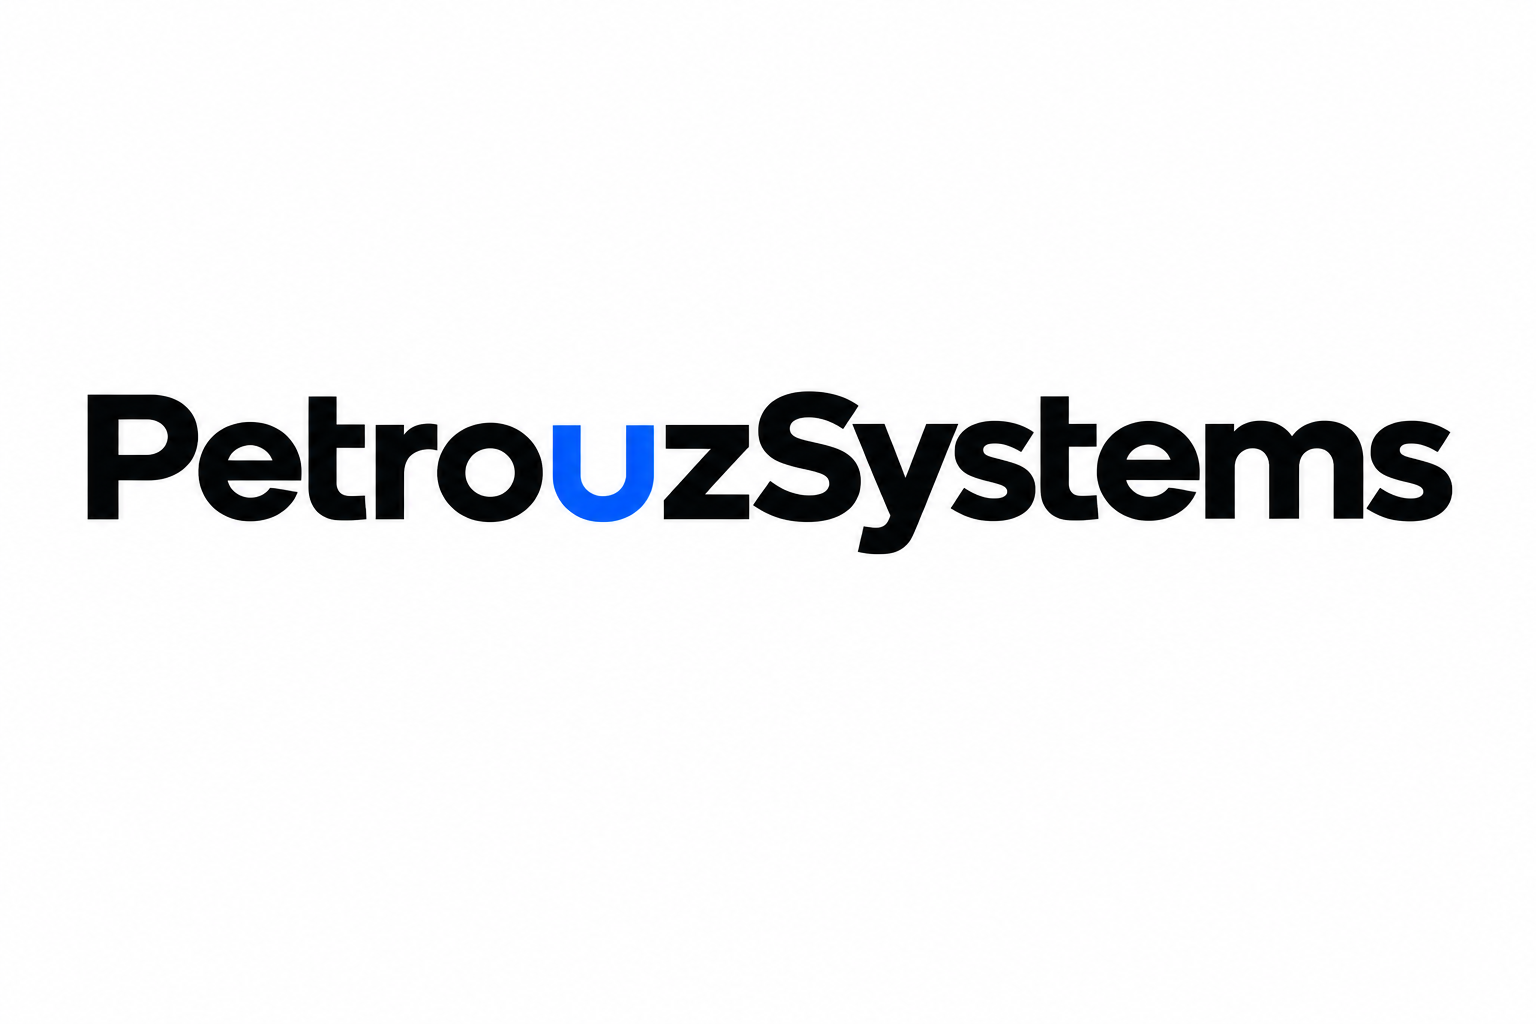
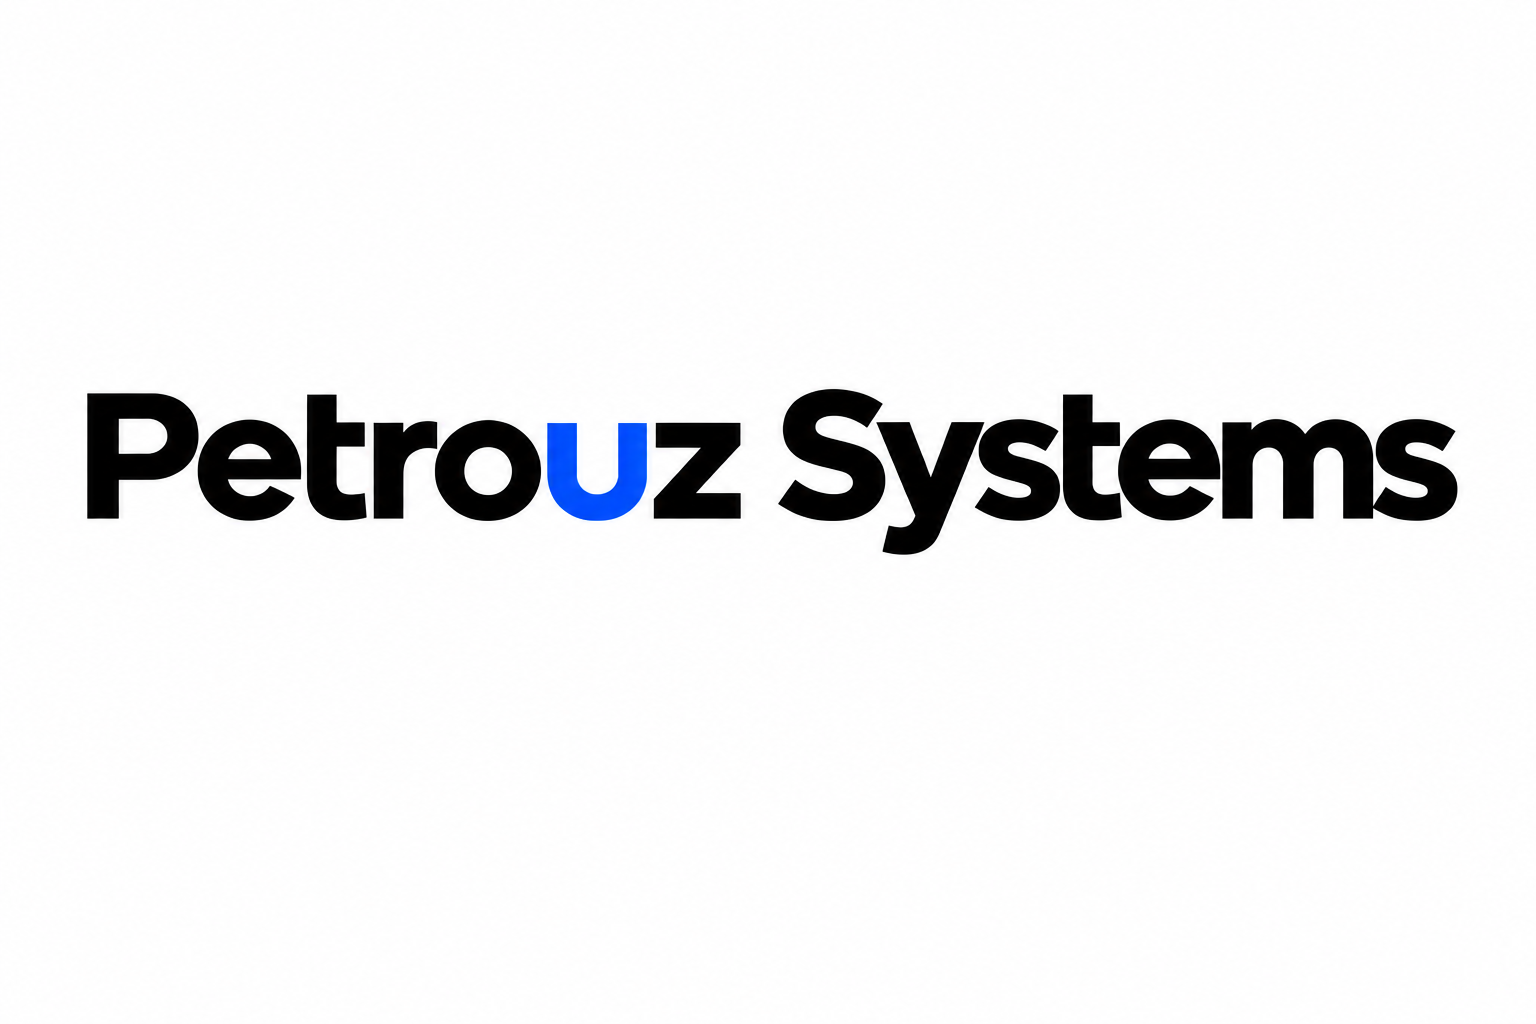
Enlarge updated Petrouz wordmark

diff --git a/docs/index.html b/docs/index.html
@@ -21,9 +21,9 @@
 <script type="application/ld+json">{"@context":"https://schema.org","@type":"SoftwareSourceCode","name":"Ansible Debian Firewall","description":"Production-oriented Ansible roles for secure, auditable and reproducible Debian 13 firewalls.","codeRepository":"https://github.com/petrouz/ansible-debian-firewall","programmingLanguage":"Ansible","license":"https://opensource.org/licenses/BSD-2-Clause","operatingSystem":"Debian 13","author":{"@type":"Organization","name":"Petrouz Systems"}}</script>
 <style>
 :root{--bg:#f5faff;--panel:#ffffff;--panel2:#edf5ff;--ink:#102b46;--muted:#587089;--line:#d7e6f4;--accent:#1769c2;--accent2:#62b5f2;--blue:#3d9ee6;--max:1200px}
-*{box-sizing:border-box}html{scroll-behavior:smooth}body{margin:0;background:var(--bg);color:var(--ink);font:16px/1.65 Inter,ui-sans-serif,system-ui,-apple-system,BlinkMacSystemFont,"Segoe UI",sans-serif}a{color:inherit;text-decoration:none}.wrap{max-width:var(--max);margin:auto;padding:0 28px}.skip{position:absolute;left:-9999px}.skip:focus{left:16px;top:16px;background:#fff;color:#000;padding:8px 12px;z-index:10}.top{border-bottom:1px solid #c4dced;background:linear-gradient(110deg,#ffffff,#eef7ff);position:sticky;top:0;z-index:5;box-shadow:0 3px 14px #4d98d91a}.nav{height:70px;display:flex;align-items:center;justify-content:space-between}.brand{display:flex;align-items:center;gap:13px;color:#123455;font-weight:900;font-size:1.25rem;letter-spacing:-.04em}.brand-image{width:170px;height:48px;object-fit:cover;object-position:center;display:block}.mark{position:relative;width:30px;height:30px;border-radius:9px;background:linear-gradient(145deg,var(--blue),var(--accent));box-shadow:0 0 24px #3157d530;clip-path:polygon(50% 0,92% 18%,86% 72%,50% 100%,14% 72%,8% 18%)}.mark:after{content:"";position:absolute;left:8px;top:7px;width:14px;height:14px;border:2px solid #fff;border-radius:4px;transform:rotate(45deg)}.links{display:flex;align-items:center;gap:22px;color:#4c6b88;font-size:.94rem}.links a:hover{color:#125da8}.button{display:inline-flex;align-items:center;justify-content:center;border-radius:8px;padding:11px 16px;font-weight:750;transition:.2s ease}.primary{background:var(--accent);color:#ffffff;box-shadow:0 8px 28px #38d6c230}.primary:hover{background:#657df0;transform:translateY(-1px)}.outline{border:1px solid #d8e2ec;background:#ffffff}.outline:hover{border-color:#8abce5;background:#edf7ff}.github-button{width:58px;height:48px;padding:0;border-radius:10px}.github-mark{width:26px;height:26px;display:block}.hero{position:relative;padding:62px 0 72px;display:grid;grid-template-columns:1fr;gap:42px;align-items:center}.eyebrow{display:inline-flex;align-items:center;gap:9px;color:var(--accent);font-size:.76rem;font-weight:800;letter-spacing:.16em;text-transform:uppercase}.eyebrow:before{content:"";width:22px;height:1px;background:var(--accent)}.hero h1{max-width:850px;font-size:clamp(2.7rem,5vw,4.8rem);letter-spacing:-.07em;line-height:1;margin:18px 0 26px;max-width:760px}.hero p{color:var(--muted);font-size:1.18rem;line-height:1.75;max-width:640px;margin:0}.actions{display:flex;flex-wrap:wrap;gap:12px;margin-top:32px}.facts{display:flex;flex-wrap:wrap;gap:9px;margin-top:25px}.fact{border:1px solid var(--line);border-radius:999px;color:var(--muted);padding:5px 11px;font-size:.82rem}.terminal{background:#102438;border:1px solid var(--line);border-radius:16px;overflow:hidden;box-shadow:0 24px 60px #52718a22}.terminalbar{display:flex;align-items:center;gap:7px;padding:13px 16px;border-bottom:1px solid var(--line);background:#18344d}.dot{width:9px;height:9px;border-radius:50%;background:#ff6b6b}.dot:nth-child(2){background:#ffd166}.dot:nth-child(3){background:#54d68b}.terminal-title{margin-left:8px;color:#9bb6ca;font:12px ui-monospace,monospace}.terminal pre{height:420px;margin:0;padding:25px;color:#e1edf5;overflow:hidden;font:14px/1.85 ui-monospace,SFMono-Regular,Menlo,monospace}.playbook-stream{animation:playbook 24s linear infinite;will-change:transform}@keyframes playbook{0%,10%{transform:translateY(0)}58%,84%{transform:translateY(calc(-100% + 370px))}100%{transform:translateY(0)}}.prompt{color:var(--accent)}.key{color:var(--accent2)}.status-ok{color:#35a853}.status-changed{color:#d59600}.section{padding:92px 0;border-top:1px solid var(--line)}h2{font-size:clamp(2rem,4vw,3.4rem);letter-spacing:-.06em;line-height:1.05;margin:12px 0 14px}.section>p{color:var(--muted);max-width:620px}.cap-head{display:flex;justify-content:space-between;align-items:end;gap:40px}.cap-head>p{max-width:410px;color:var(--muted);margin:0 0 4px}.cap-list{display:grid;grid-template-columns:repeat(2,1fr);gap:16px;margin-top:42px}.cap-card{display:grid;grid-template-columns:50px 1fr;gap:20px;padding:26px 24px;background:linear-gradient(135deg,#f1f5ff,#fafaff);border:1px solid var(--line);border-radius:12px;transition:.2s ease}.cap-card:hover{transform:translateY(-3px);border-color:#9aaef0;box-shadow:0 14px 30px #52718a18}.cap-card.featured,.cap-card:nth-child(2),.cap-card:nth-child(3),.cap-card:nth-child(4),.cap-card:nth-child(5),.cap-card:nth-child(6){background:linear-gradient(135deg,#edf7ff,#f7fbff);border-color:#c4dced}.cap-number{color:var(--accent);font:700 13px ui-monospace,monospace;padding-top:4px}.cap-card h3{margin:0 0 8px;color:var(--ink);font-size:1.12rem}.cap-card p{color:var(--muted);font-size:.94rem;margin:0 0 15px}.cap-tag{color:var(--accent);font:700 10px ui-monospace,monospace;letter-spacing:.14em}.grid{display:grid;grid-template-columns:repeat(3,1fr);gap:18px;margin-top:36px}.card{position:relative;min-height:170px;padding:28px;background:linear-gradient(145deg,#ffffff,#f1f7fb);border:1px solid var(--line);border-radius:13px;transition:.2s ease}.card:hover{transform:translateY(-4px);border-color:#9aaef0;box-shadow:0 14px 30px #52718a18}.card h3{margin:0 0 10px;color:var(--ink);font-size:1.12rem;font-size:1.05rem}.card p{color:var(--muted);font-size:.96rem;margin:0}.cta{position:relative;overflow:hidden;display:flex;justify-content:space-between;align-items:center;gap:24px;padding:34px;background:linear-gradient(110deg,#e9f5ff,#f4faff);border:1px solid var(--line);border-radius:16px}.cta:after{content:"SYSTEMS / SECURITY / CONTROL";position:absolute;right:28px;bottom:17px;color:#3157d525;font:700 11px ui-monospace,monospace;letter-spacing:.18em}.cta p{color:var(--muted);margin:0}.footer{padding:28px 0;color:var(--muted);font-size:.9rem}.foot{display:flex;justify-content:space-between;border-top:1px solid var(--line);padding-top:24px}.foot a:hover{color:var(--ink)}
+*{box-sizing:border-box}html{scroll-behavior:smooth}body{margin:0;background:var(--bg);color:var(--ink);font:16px/1.65 Inter,ui-sans-serif,system-ui,-apple-system,BlinkMacSystemFont,"Segoe UI",sans-serif}a{color:inherit;text-decoration:none}.wrap{max-width:var(--max);margin:auto;padding:0 28px}.skip{position:absolute;left:-9999px}.skip:focus{left:16px;top:16px;background:#fff;color:#000;padding:8px 12px;z-index:10}.top{border-bottom:1px solid #c4dced;background:linear-gradient(110deg,#ffffff,#eef7ff);position:sticky;top:0;z-index:5;box-shadow:0 3px 14px #4d98d91a}.nav{height:70px;display:flex;align-items:center;justify-content:space-between}.brand{display:flex;align-items:center;gap:13px;color:#123455;font-weight:900;font-size:1.25rem;letter-spacing:-.04em}.brand-image{width:260px;height:60px;object-fit:cover;object-position:center;display:block}.mark{position:relative;width:30px;height:30px;border-radius:9px;background:linear-gradient(145deg,var(--blue),var(--accent));box-shadow:0 0 24px #3157d530;clip-path:polygon(50% 0,92% 18%,86% 72%,50% 100%,14% 72%,8% 18%)}.mark:after{content:"";position:absolute;left:8px;top:7px;width:14px;height:14px;border:2px solid #fff;border-radius:4px;transform:rotate(45deg)}.links{display:flex;align-items:center;gap:22px;color:#4c6b88;font-size:.94rem}.links a:hover{color:#125da8}.button{display:inline-flex;align-items:center;justify-content:center;border-radius:8px;padding:11px 16px;font-weight:750;transition:.2s ease}.primary{background:var(--accent);color:#ffffff;box-shadow:0 8px 28px #38d6c230}.primary:hover{background:#657df0;transform:translateY(-1px)}.outline{border:1px solid #d8e2ec;background:#ffffff}.outline:hover{border-color:#8abce5;background:#edf7ff}.github-button{width:58px;height:48px;padding:0;border-radius:10px}.github-mark{width:26px;height:26px;display:block}.hero{position:relative;padding:62px 0 72px;display:grid;grid-template-columns:1fr;gap:42px;align-items:center}.eyebrow{display:inline-flex;align-items:center;gap:9px;color:var(--accent);font-size:.76rem;font-weight:800;letter-spacing:.16em;text-transform:uppercase}.eyebrow:before{content:"";width:22px;height:1px;background:var(--accent)}.hero h1{max-width:850px;font-size:clamp(2.7rem,5vw,4.8rem);letter-spacing:-.07em;line-height:1;margin:18px 0 26px;max-width:760px}.hero p{color:var(--muted);font-size:1.18rem;line-height:1.75;max-width:640px;margin:0}.actions{display:flex;flex-wrap:wrap;gap:12px;margin-top:32px}.facts{display:flex;flex-wrap:wrap;gap:9px;margin-top:25px}.fact{border:1px solid var(--line);border-radius:999px;color:var(--muted);padding:5px 11px;font-size:.82rem}.terminal{background:#102438;border:1px solid var(--line);border-radius:16px;overflow:hidden;box-shadow:0 24px 60px #52718a22}.terminalbar{display:flex;align-items:center;gap:7px;padding:13px 16px;border-bottom:1px solid var(--line);background:#18344d}.dot{width:9px;height:9px;border-radius:50%;background:#ff6b6b}.dot:nth-child(2){background:#ffd166}.dot:nth-child(3){background:#54d68b}.terminal-title{margin-left:8px;color:#9bb6ca;font:12px ui-monospace,monospace}.terminal pre{height:420px;margin:0;padding:25px;color:#e1edf5;overflow:hidden;font:14px/1.85 ui-monospace,SFMono-Regular,Menlo,monospace}.playbook-stream{animation:playbook 24s linear infinite;will-change:transform}@keyframes playbook{0%,10%{transform:translateY(0)}58%,84%{transform:translateY(calc(-100% + 370px))}100%{transform:translateY(0)}}.prompt{color:var(--accent)}.key{color:var(--accent2)}.status-ok{color:#35a853}.status-changed{color:#d59600}.section{padding:92px 0;border-top:1px solid var(--line)}h2{font-size:clamp(2rem,4vw,3.4rem);letter-spacing:-.06em;line-height:1.05;margin:12px 0 14px}.section>p{color:var(--muted);max-width:620px}.cap-head{display:flex;justify-content:space-between;align-items:end;gap:40px}.cap-head>p{max-width:410px;color:var(--muted);margin:0 0 4px}.cap-list{display:grid;grid-template-columns:repeat(2,1fr);gap:16px;margin-top:42px}.cap-card{display:grid;grid-template-columns:50px 1fr;gap:20px;padding:26px 24px;background:linear-gradient(135deg,#f1f5ff,#fafaff);border:1px solid var(--line);border-radius:12px;transition:.2s ease}.cap-card:hover{transform:translateY(-3px);border-color:#9aaef0;box-shadow:0 14px 30px #52718a18}.cap-card.featured,.cap-card:nth-child(2),.cap-card:nth-child(3),.cap-card:nth-child(4),.cap-card:nth-child(5),.cap-card:nth-child(6){background:linear-gradient(135deg,#edf7ff,#f7fbff);border-color:#c4dced}.cap-number{color:var(--accent);font:700 13px ui-monospace,monospace;padding-top:4px}.cap-card h3{margin:0 0 8px;color:var(--ink);font-size:1.12rem}.cap-card p{color:var(--muted);font-size:.94rem;margin:0 0 15px}.cap-tag{color:var(--accent);font:700 10px ui-monospace,monospace;letter-spacing:.14em}.grid{display:grid;grid-template-columns:repeat(3,1fr);gap:18px;margin-top:36px}.card{position:relative;min-height:170px;padding:28px;background:linear-gradient(145deg,#ffffff,#f1f7fb);border:1px solid var(--line);border-radius:13px;transition:.2s ease}.card:hover{transform:translateY(-4px);border-color:#9aaef0;box-shadow:0 14px 30px #52718a18}.card h3{margin:0 0 10px;color:var(--ink);font-size:1.12rem;font-size:1.05rem}.card p{color:var(--muted);font-size:.96rem;margin:0}.cta{position:relative;overflow:hidden;display:flex;justify-content:space-between;align-items:center;gap:24px;padding:34px;background:linear-gradient(110deg,#e9f5ff,#f4faff);border:1px solid var(--line);border-radius:16px}.cta:after{content:"SYSTEMS / SECURITY / CONTROL";position:absolute;right:28px;bottom:17px;color:#3157d525;font:700 11px ui-monospace,monospace;letter-spacing:.18em}.cta p{color:var(--muted);margin:0}.footer{padding:28px 0;color:var(--muted);font-size:.9rem}.foot{display:flex;justify-content:space-between;border-top:1px solid var(--line);padding-top:24px}.foot a:hover{color:var(--ink)}
 @media(max-width:800px){.cap-head{align-items:flex-start;flex-direction:column;gap:12px}.cap-list{grid-template-columns:1fr}.links a:not(.button){display:none}.hero{padding:75px 0 65px;grid-template-columns:1fr;gap:42px}.grid{grid-template-columns:repeat(2,1fr)}.cta{align-items:flex-start;flex-direction:column}}
-@media(max-width:520px){.wrap{padding:0 19px}.nav{height:64px}.hero h1{max-width:850px;font-size:3.35rem}.grid{grid-template-columns:1fr}.foot{gap:12px;flex-direction:column}}
+@media(max-width:520px){.brand-image{width:210px;height:52px}.wrap{padding:0 19px}.nav{height:64px}.hero h1{max-width:850px;font-size:3.35rem}.grid{grid-template-columns:1fr}.foot{gap:12px;flex-direction:column}}
 </style>
 </head>
 <body>
